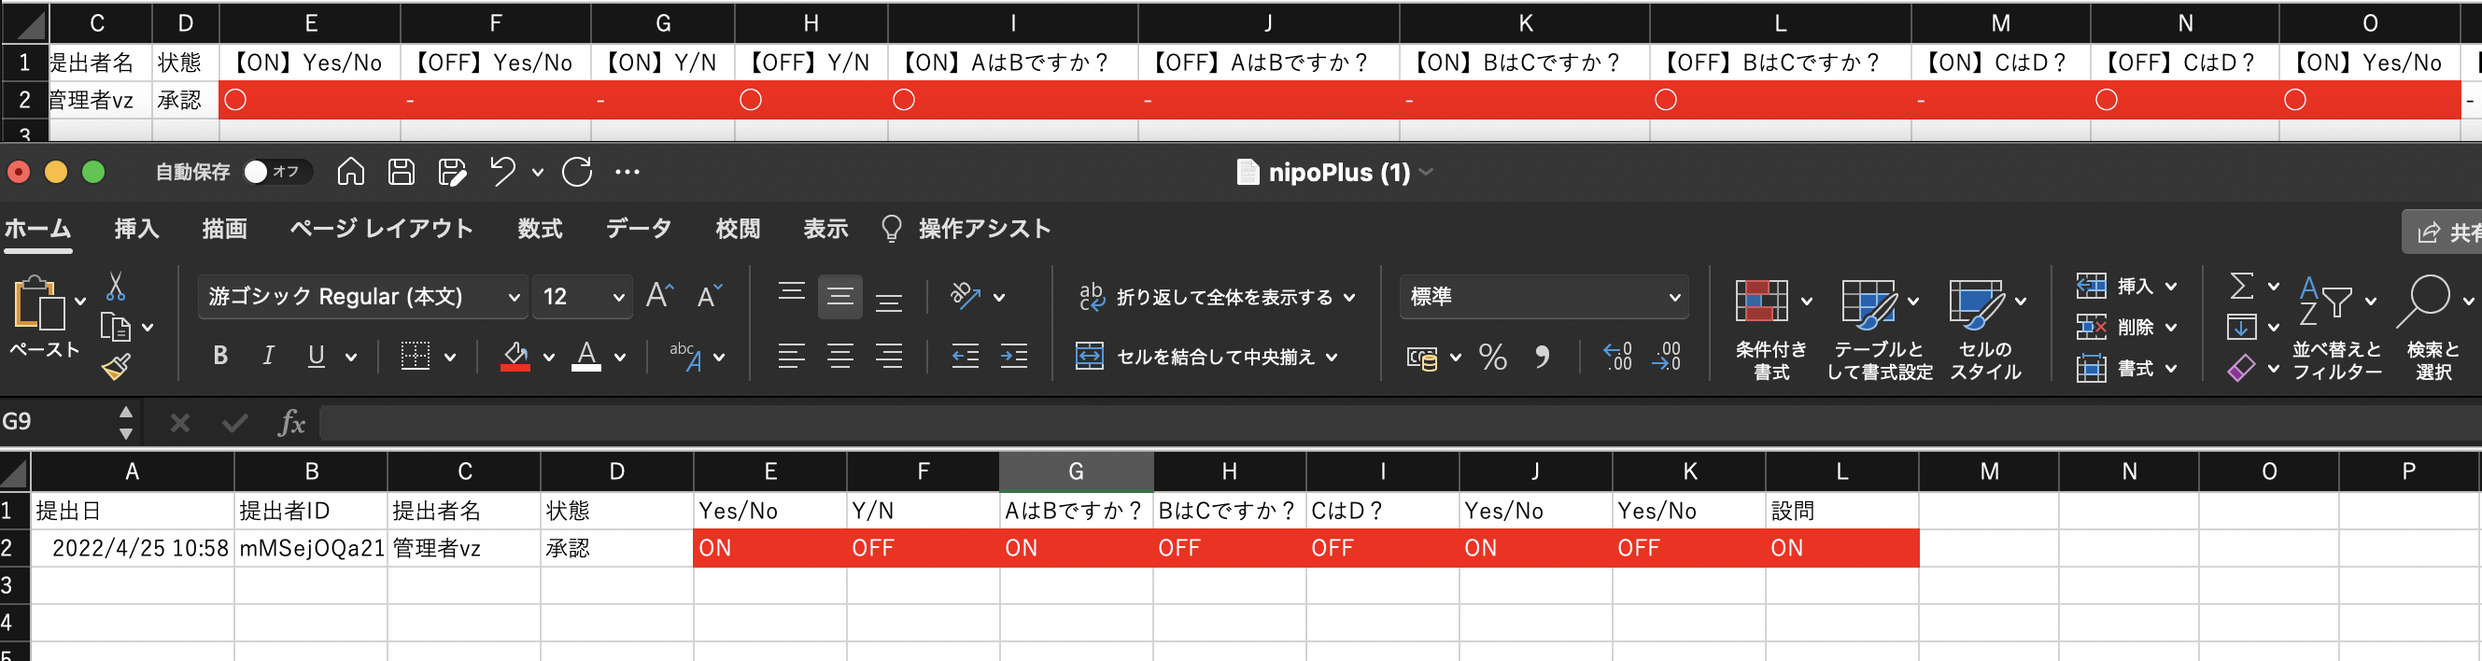
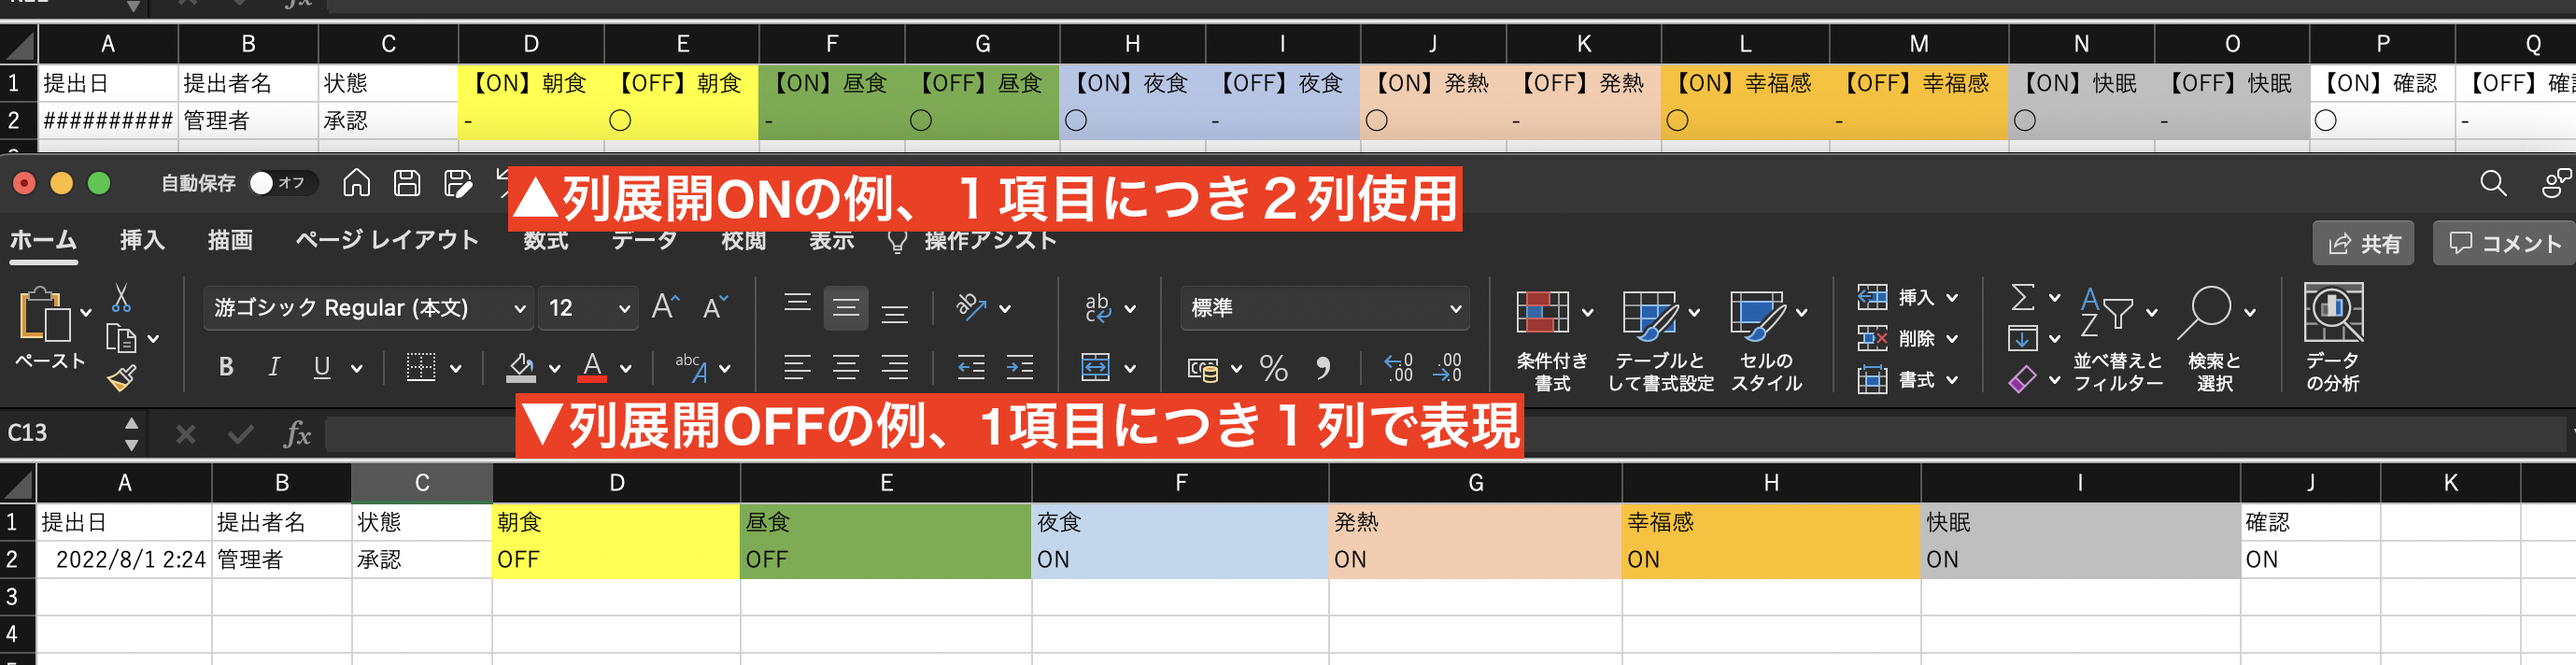
checksheet

diff --git a/static/css/theme.css b/static/css/theme.css
@@ -38,7 +38,7 @@ body #chapter h1 {
     }
 }
 a {
-    color: #00bdf3;
+    color: #0018f3;
 }
 a:hover {
     color: #0082a7;
@@ -80,7 +80,7 @@ textarea:hover, input[type="email"]:hover, input[type="number"]:hover, input[typ
     border-color: #c4c4c4;
 }
 textarea:focus, input[type="email"]:focus, input[type="number"]:focus, input[type="password"]:focus, input[type="search"]:focus, input[type="tel"]:focus, input[type="text"]:focus, input[type="url"]:focus, input[type="color"]:focus, input[type="date"]:focus, input[type="datetime"]:focus, input[type="datetime-local"]:focus, input[type="month"]:focus, input[type="time"]:focus, input[type="week"]:focus, select[multiple=multiple]:focus {
-    border-color: #00bdf3;
+    border-color: #0018f3;
     box-shadow: inset 0 1px 3px rgba(0,0,0,.06),0 0 5px rgba(0,169,218,.7)
 }
 #header-wrapper {
@@ -1065,7 +1065,7 @@ pre .copy-to-clipboard {
     border-radius: 2px;
 }
 pre .copy-to-clipboard:hover {
-    background-color: #00bdf3;
+    background-color: #0018f3;
     color: #fff;
 }
 .parent-element {
@@ -1098,7 +1098,7 @@ pre .copy-to-clipboard:hover {
     text-align: right;
 }
 #sidebar ul li.visited > a.read-icon {
-    color: #00bdf3;
+    color: #0018f3;
     display: inline;
 }
 

diff --git a/layouts/shortcodes/imgproc.html b/layouts/shortcodes/imgproc.html
@@ -7,15 +7,17 @@
 {{ $img := .Page.Resources.GetMatch (printf "*%s*" (.Get 0)) }}
 {{ $alt := .Get 1 }}
 {{ $webp := "1800x webp" }}
+
+{{ $small := $img.Resize "480x webp" }}
+{{ $mid := $img.Resize "1024x webp" }}
 {{ $full := $img.Resize "1500x webp" }}
-{{ $mid := $img.Resize "1200x webp" }}
-{{ $small := $img.Resize "600x webp" }}
+
 <figure style="padding: 0rem; margin: 0rem 0; background-color: #ffff; ">
   <picture>
     <img style="max-width: 100%; width: auto; height: auto;" src="{{ $full.RelPermalink }}" width="{{ $full.Width }}" height="{{ $full.Height }}" alt="{{ $alt }}" srcset="
-      {{ $small.RelPermalink }} 600w,
-      {{ $mid.RelPermalink }} 1200x,
-      {{ $full.RelPermalink }} 1800w
+      {{ $small.RelPermalink }} 480w,
+      {{ $mid.RelPermalink }} 1024w,
+      {{ $full.RelPermalink }} 1500w
     ">
     <figcaption>
       <i style="font-size: 13px;">

diff --git a/content/org/groupsetting/template/checkbox/index.md b/content/org/groupsetting/template/checkbox/index.md
@@ -8,62 +8,85 @@ weight = 170
 
 {{<imgproc checkbox.png "チェックボックス入力フォームを含んだ日報の作成画面" />}}
 
-|[集計可否](/report/totalling/form/)|[CSV出力](/report/totalling/csv/)|[PDF出力](/report/read/pdf/)|
-|:---:|:---:|:---:|
-|✗|○|○|
 
-## はい・いいえ ２択で回答可能な設問に最適な入力フォーム
+チェックボックス入力フォームは「はい・いいえ」や「ON・OFF」「あり・なし」のように２通りで回答できる際に便利な入力フォームです。
+チェックボックス型とトグルスイッチ型の２種類が用意されています。見た目の違いだけですので好みに応じて使い分けてください。
+入力パターンはONかOFFの2種類しかない、非常にシンプルな入力フォームです。3択以上の選択肢が必要な場合は[選択肢入力フォーム](/org/groupsetting/template/select/)を検討してください。
 
-チェックボックスパーツは「はい・いいえ」や「ON・OFF」「あり・なし」のように２通りで回答できる際に便利な入力フォームです。
-NipoPlusではチェックボックス型とトグルスイッチ型の２種類が用意されています。
-チェックボックス型とトグルスイッチ型は見た目の違いしか有りません。お好みで選択してください
+## チェックボックスの初期設定
 
-## チェックボックスの設定
+チェックボックス自体はシンプルな機能のため初期設定の項目もそこまで多くは有りません。1つ注意するポイントとして、メモの使われ方がチェックボックスだけ他の項目と異なり、ボックスの横に配置されるという点です。
 
-{{<imgproc setting.png "チェックボックス入力フォームの設定画面" />}}
 
 |名称|説明|
 |---|---|
 |表示名|項目見出しエリアに表示される文字です|
 |色|項目見出しエリアの背景色を設定できます。灰色・茶色・緑色・紺色・赤色から選択してください。初期値は灰色です|
 |サイズ|表示名の文字サイズを最小・小・中・大の４段階から設定できます。初期値は「中」です。表示名が長すぎる場合は設定が無視されます|
-|メモ|入力エリアの画面左上に赤文字で表示されます。日報・チェックシートの作成者が迷うことのないように補足文として活用できます|
+|メモ|チェックボックスの右隣に表示される設問の解説です|
 |入力必須|これがONの場合、日報提出時にこのチェックボックスがONでないと提出ができないようになります|
 |初期状態でONにする|これがONの場合、日報作成時にこのチェックボックスはONの状態でスタートします|
-|幅|1〜12の幅を選択できます。推奨幅は2〜6です|
+|幅|1〜12の幅を選択できます。推奨幅はメモや表示名に応じて変わりますが2〜6です|
 |形状|「スイッチ」「ボックス」から選択します。見た目が変わりますが使い方は一緒です|
 
-## チェックボックスの日報を受け取ったときにどのように見えるのか？
+## チェックボックス入力フォームを使ったテンプレートを作成
 
-チェックボックスの含まれる日報は日報作成時とほぼ同じ見た目のまま提出先でも読むことができます。
+チェックボックスだけで構成されたチェックシートのようなテンプレートを作りました。
+
+{{<imgproc template.png "チェックボックス入力フォームの設定画面" />}}
+
+以降、このチェックシートを例に実際の入力画面や出力時のイメージについて解説していきます。
+
+### チェックボックスで構成されたチェックシートを入力する
+
+以下の画像は先程作成したテンプレートを使って実際に入力画面を表示したものです。
+
+{{<imgproc input.png "チェックシートの入力画面イメージ。左はipad・右はiPhoneのサイズでそれぞれ表示している" />}}
+
+まずメモとして記入された項目はチェックボックスの右隣に表示されていることを確認してください。上の画像でいうところの「食べた」や「あり」といった文字がそれに該当します。
+また末尾のチェックボックス「確認」には入力必須が設定されています。入力必須が設定されていると、そのチェックボックスがONにならないとチェックシートの提出ができません。
+用途としては限定的になりますが、上画像のように「入力内容の確認」などで利用できます。
+
+{{<alice pos="right" icon="shield">}}
+一般の設問で入力必須は使用してはいけません。ONにすると回答がすべてONに強制され、チェックシートとして機能しなくなります
+{{</alice>}}
+
+### チェックボックスのデータを表示する
+
+チェックボックスの含まれるチェックシートは作成時とほぼ同じ見た目のままで表示されます。
 
 {{<imgproc post.png "チェックボックスを含んだ日報の受信者からみた画面" />}}
 
-チェックボックス・トグルスイッチなどの見た目もそのまま引き継がれます。ただしこれらのチェックボックスは全て読み取り専用に変換されるため、
-日報を受け取った側ではチェックボックスの操作はできません。
-日報の内容を修正するには日報の修正をref!参照してください
+チェックボックス・トグルスイッチなどの見た目もそのまま引き継がれます。一見すると入力できそうですがこの段階で読み取り専用になっているため入力はできません。
+また、画面下部ではデータ推移も確認できます。前回、前々回でどのような値が入力されたのかをチェックできます。
 
-## チェックボックスの日報をCSVに出力する
+## データ活用編
 
-受け取った日報をCSVに出力する際、チェックボックスについては「列の展開」を選択できます。
-列の展開をONにすると、１つのチェックボックスに対して２列（ONの列・OFFの列）が生成されます。
+|[集計可否](/report/totalling/form/)|[CSV出力](/report/totalling/csv/)|[PDF出力](/report/read/pdf/)|検索|
+|:---:|:---:|:---:|:---:|
+|○|○|○|✗|
+
+### チェックボックスの日報をCSVに出力する
+
+受け取った日報をCSVに出力する際、チェックボックスについては「列の展開」を選択できます。列の展開をONにすると、１つのチェックボックスに対して２列（ONの列・OFFの列）が生成されます。
 列の展開をOFFにすると、１つのチェックボックスに対して１列（ON / OFFの文字で出力）しか使いません。
+
+{{<imgproc csvsetting.png "CSVの出力前設定。チェックボックスは列の展開をON・OFF切り替えが可能です" />}}
+
+
 実際にCSVに出力した例を並べてみました。赤文字で強調しています。
 {{<imgproc csv.png "チェックボックスを含んだ日報をCSVに出力した例" />}}
 
 列展開の切替は、日報をCSVに変換するボタンの下向き三角ボタンをクリックし、表示された項目の中から
 「チェックボックスの展開」を操作して切り替えます
-列展開の方法についてはref!CSV出力の設定を参照してください
 
-{{<imgproc split.png "列展開あり" />}}
 
 なお、PDFに出力したときはこのように表現されます
 {{<imgproc pdf.png "チェックボックスを含んだ日報をPDFに変換した例" />}}
 
 ### チェックボックスの集計について
 
-チェックボックスの集計は現在開発段階であり、機能として提供されておりません。
-今しばらくお待ち下さい
+入力内容のONとOFFそれぞれに分けて集計が行われます。
 
 ### サンプルデータ
 

diff --git a/content/system/ios/index.md b/content/system/ios/index.md
@@ -13,7 +13,7 @@ iOSにインストールするには大きく分けて2つの方法（PWA版・A
 
 ## PWAとしてNipoPlusをインストールする【推奨】
 
-SafariからNipoPlusを起動し、Safariから直接NipoPlusをiOSにインストールできます。
+**PWAとはWebサイトをアプリのように利用できる技術**のことです。SafariからNipoPlusを起動し、Safariから直接NipoPlusをiOSにインストールできます。
 こちらの方法はWeb版のNipoPlusと同じ環境でご利用可能です。URLバーなどの不要な項目が非表示なって全画面で表示されます。またホーム画面にもNipoPlusのアイコンが表示され、普通のアプリとほぼ同じように利用できます。
 手順は以下のとおりです。
 

diff --git a/content/system/android/index.md b/content/system/android/index.md
@@ -13,7 +13,7 @@ Android端末にインストールするには大きく分けて2つの方法（
 
 ## PWAとしてNipoPlusをインストールする【推奨】
 
-Android端末に標準で搭載されているGoogle Chormeを使って簡単にインストールできます。
+**PWAとはWebサイトをアプリのように利用できる技術**のことです。Android端末に標準で搭載されているGoogle Chormeを使って簡単にインストールできます。
 PWA版はWeb版と同じ環境で利用できるためおすすめのインストール方法です。後述するPlayStore版はいくつかの機能制限がかかりますが、PWA版は制限が有りません。
 手順は以下のとおりです
 
